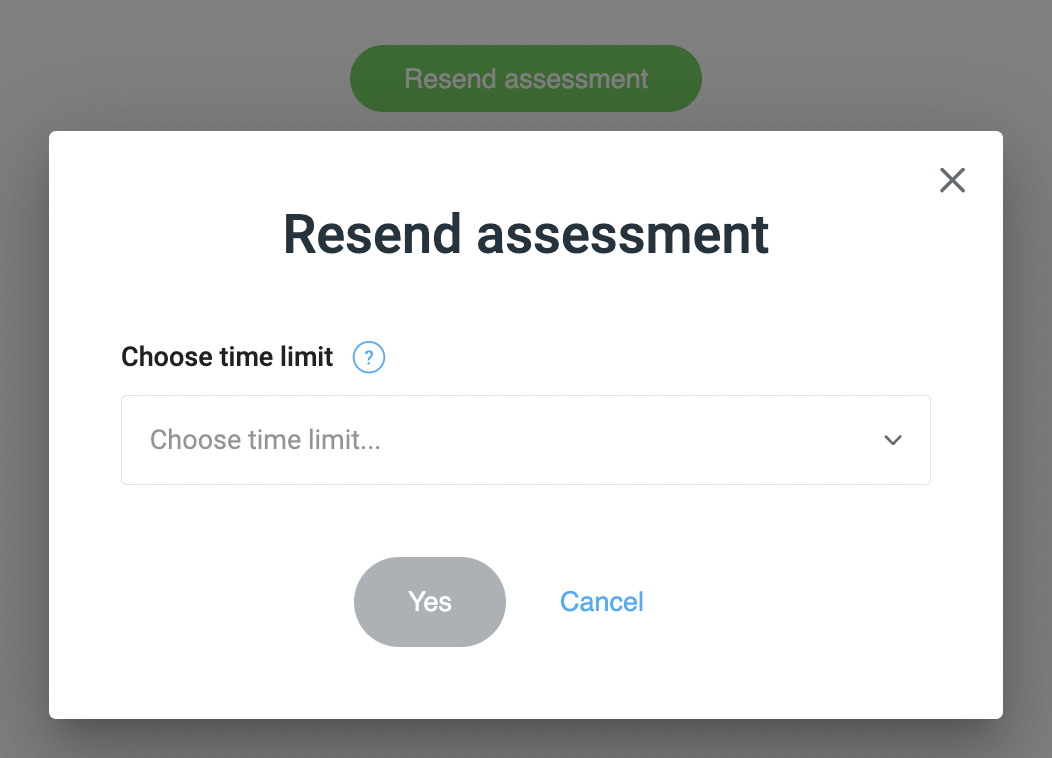
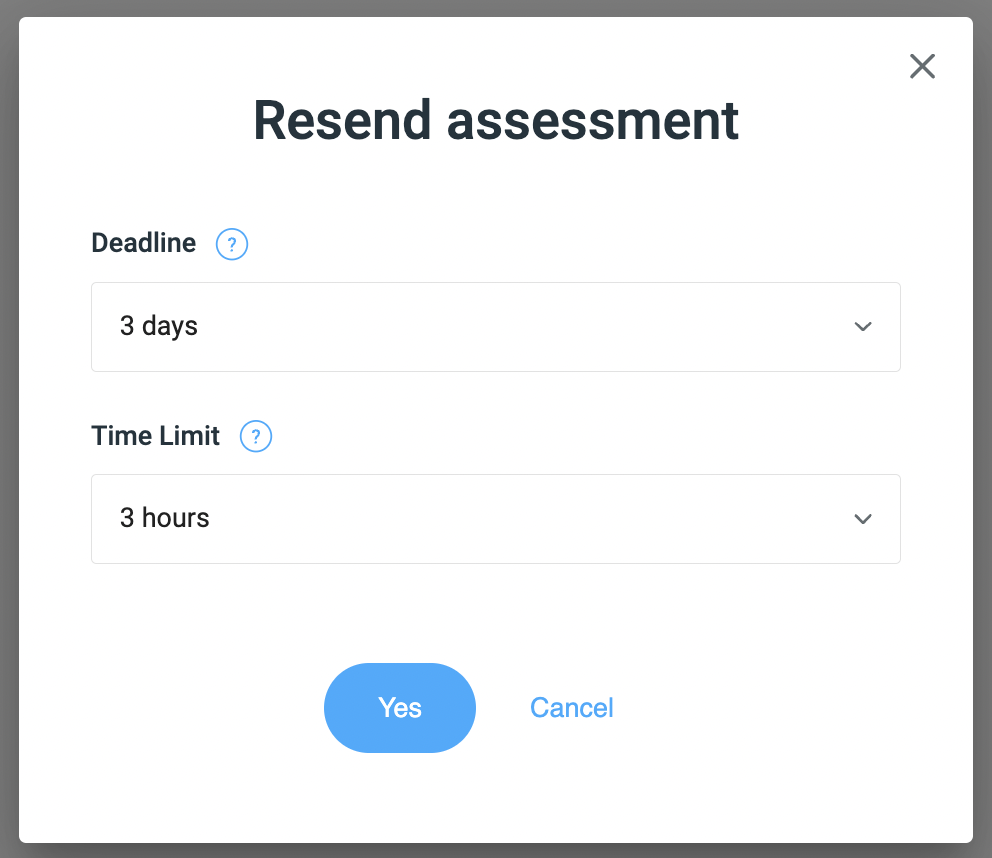
Updated re-sending assessment doc

diff --git a/docs/resending-assessments.md b/docs/resending-assessments.md
@@ -22,7 +22,9 @@ If you would like to then re-send the assessment to the candidate, please follow
   <img style="max-width: 40%;" src="resendAssessment2.png" alt="Resend Assessment 2"/>
 </figure>
 
-Please click the green `Resend assessment` button.
+<br>
+
+Please then click the green `Resend assessment` button.
 
 <br>
 
@@ -34,14 +36,20 @@ Please click the green `Resend assessment` button.
   <img style="max-width: 40%;" src="resendAssessment3.png" alt="Resend Assessment 3"/>
 </figure>
 
-Here you can enter the time the candidate has to complete the assessment from when it is re-sent. Once you set the time, 
-then click the `Yes` button. The assessment is then re-sent, the candidate is notified via email, and the candidate is placed back into
-the `In Progress` column.
+<br>
+
+The `Deadline` and `Time Limit` will be set to the current values of these parameters for this assessment, but you can edit these for this candidate you are re-sending the assessment to.
+
+Once you click the `Yes` button, the assessment is re-sent, the candidate is notified via email, and the candidate is placed back into the `In Progress` column.
+
+<br>
 
 <figure>
   <figcaption style="font-style: italic;"></figcaption>
   </br>
   <img style="max-width: 60%;" src="resendAssessment4.png" alt="Resend assessment 4"/>
 </figure>
+
+<br>
 
 That's it; you're all done!
